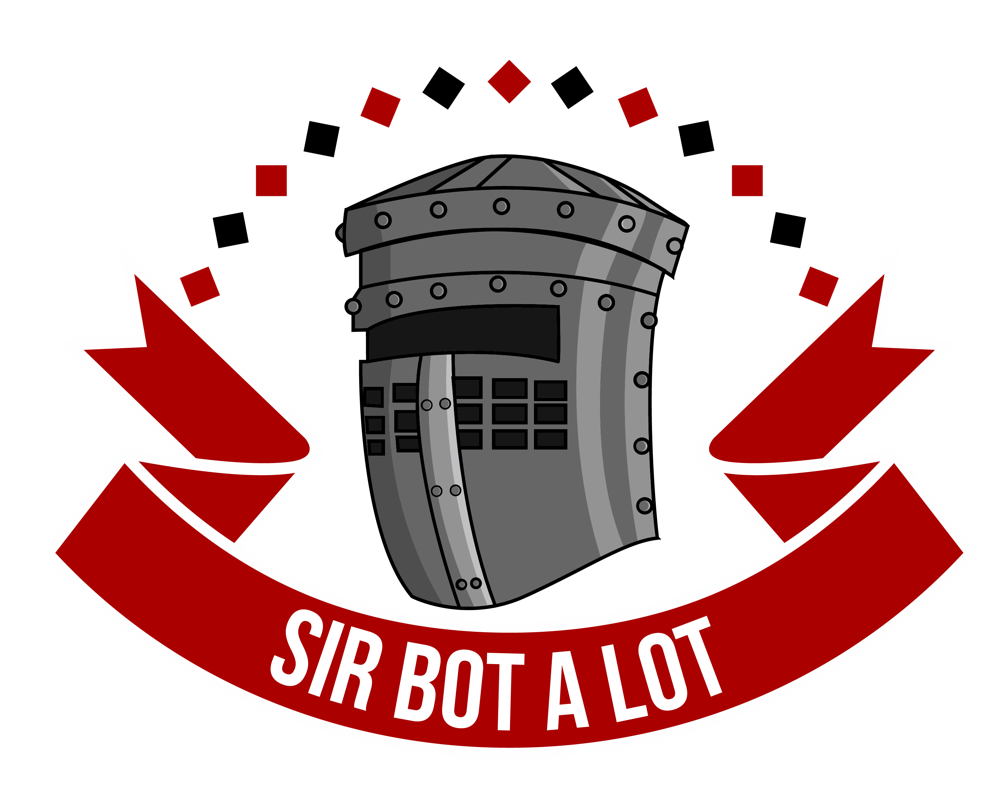
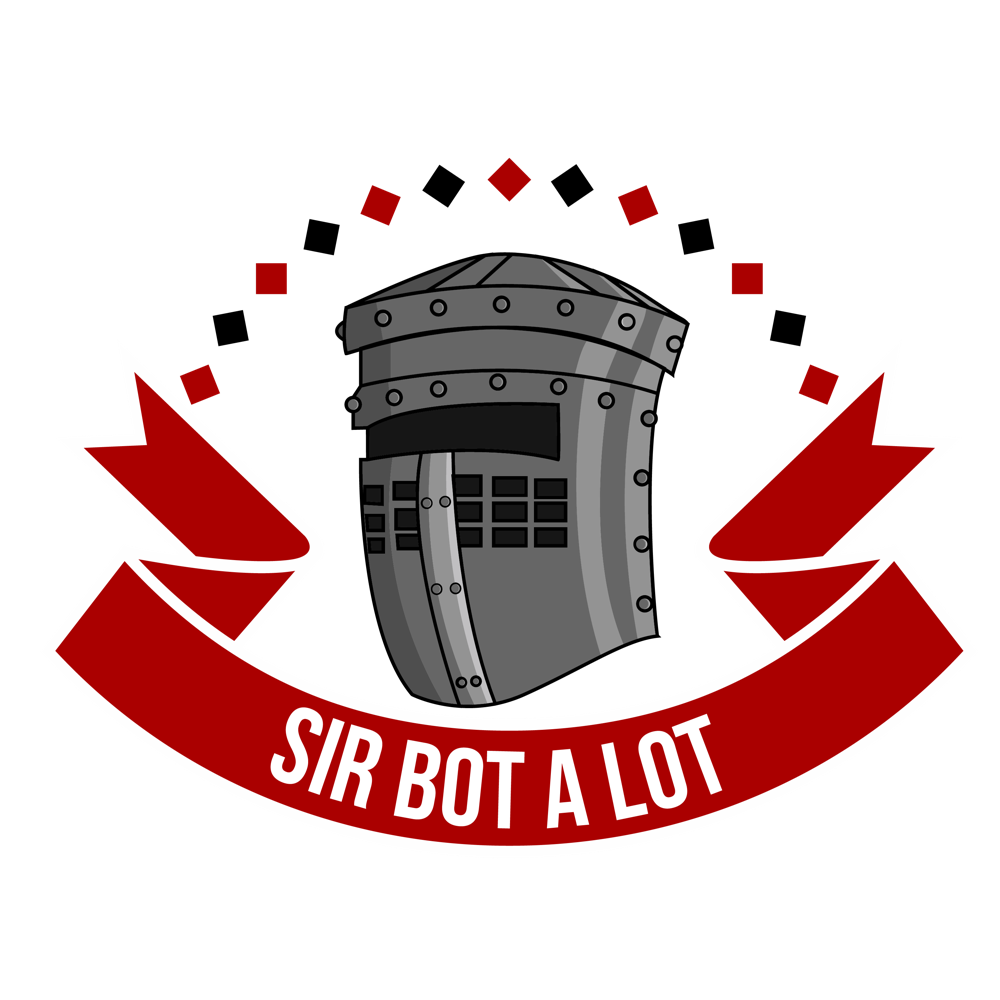
Configure plugin before starting aiohttp app
Update icon for slack format

diff --git a/sirbot/core.py b/sirbot/core.py
@@ -1,19 +1,18 @@
 import asyncio
+import functools
+import importlib
 import logging
 import logging.config
-import functools
-import pluggy
-import importlib
-import aiohttp
-
-from typing import Optional
-from aiohttp import web
 from collections import defaultdict
+from typing import Optional
 
-from . import hookspecs
-from .facade import MainFacade
+import aiohttp
+import pluggy
+from aiohttp import web
 
 from sirbot.utils import error_callback
+from . import hookspecs
+from .facade import MainFacade
 
 logger = logging.getLogger('sirbot.core')
 
@@ -30,8 +29,9 @@ class SirBot:
         self._tasks = {}
         self._dispatcher = None
         self._pm = None
-        self._session = None
+        self._session = aiohttp.ClientSession(loop=self._loop)
         self._plugins = dict()
+        self._configure_future = None
 
         self._start_priority = defaultdict(list)
         self._facades = dict()
@@ -44,6 +44,7 @@ class SirBot:
 
         self._initialize_plugins()
         self._registering_facades()
+        self._configure_plugins()
         logger.info('Sir-bot-a-lot Initialized')
 
     def _configure(self) -> None:
@@ -63,8 +64,8 @@ class SirBot:
         Startup tasks
         """
         logger.info('Starting Sir-bot-a-lot ...')
-        self._session = aiohttp.ClientSession(loop=self._loop)
-        await self._configuring_plugins()
+        if self._configure_future:
+            await self._configure_future
         await self._start_plugins()
 
         logger.info('Sir-bot-a-lot fully started')
@@ -114,20 +115,28 @@ class SirBot:
                 if callable(plugin_facade):
                     self._facades[name] = info['plugin'].facade
 
-    async def _configuring_plugins(self) -> None:
+    def _configure_plugins(self) -> None:
         funcs = list()
 
         for name, info in self._plugins.items():
             if info['priority']:
-                funcs.append(info['plugin'].configure(info['config'],
-                                                      self._app.router,
-                                                      self._session,
-                                                      MainFacade(
-                                                          self._facades)))
+                funcs.append(
+                    info['plugin'].configure(
+                        config=info['config'],
+                        session=self._session,
+                        facades=MainFacade(self._facades),
+                        router=self.app.router
+                    )
+                )
 
         if funcs:
-            await asyncio.wait(funcs, return_when=asyncio.ALL_COMPLETED,
-                               loop=self._loop)
+            self._configure_future = asyncio.wait(
+                funcs,
+                return_when=asyncio.ALL_COMPLETED,
+                loop=self._loop
+            )
+            if not self._loop.is_running():
+                self._loop.run_until_complete(self._configure_future)
 
     async def _start_plugins(self) -> None:
         logger.debug('Starting plugins')
@@ -176,7 +185,12 @@ class SirBot:
     async def _middleware_factory(self, app, handler):
         async def middleware_handler(request):
             request['facades'] = MainFacade(self._facades)
-            return await handler(request)
+            try:
+                return await handler(request)
+            except aiohttp.web.HTTPNotFound:
+                pass
+            except Exception as e:
+                logger.exception(e)
 
         return middleware_handler
 

diff --git a/sirbot/plugin.py b/sirbot/plugin.py
@@ -20,7 +20,7 @@ class Plugin(ABC):  # pragma: no cover
 
 
         :param config: configuration for this plugin
-        :param router: aiohttp router
+        :param router: aiohttp UrlDispatcher
         :param session: aiohttp client session
         :param facades: facades of all available plugins
         :return: None
